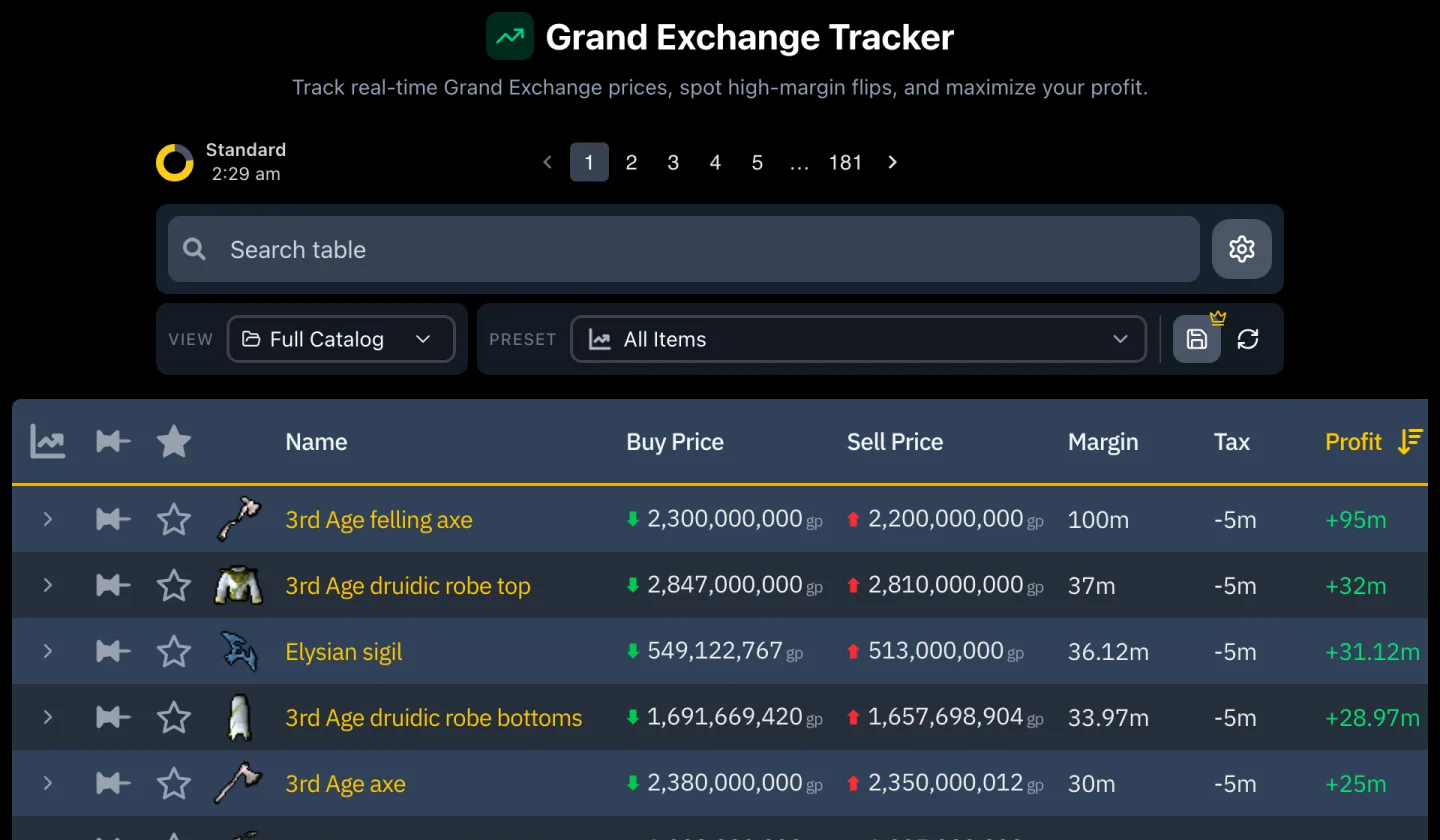
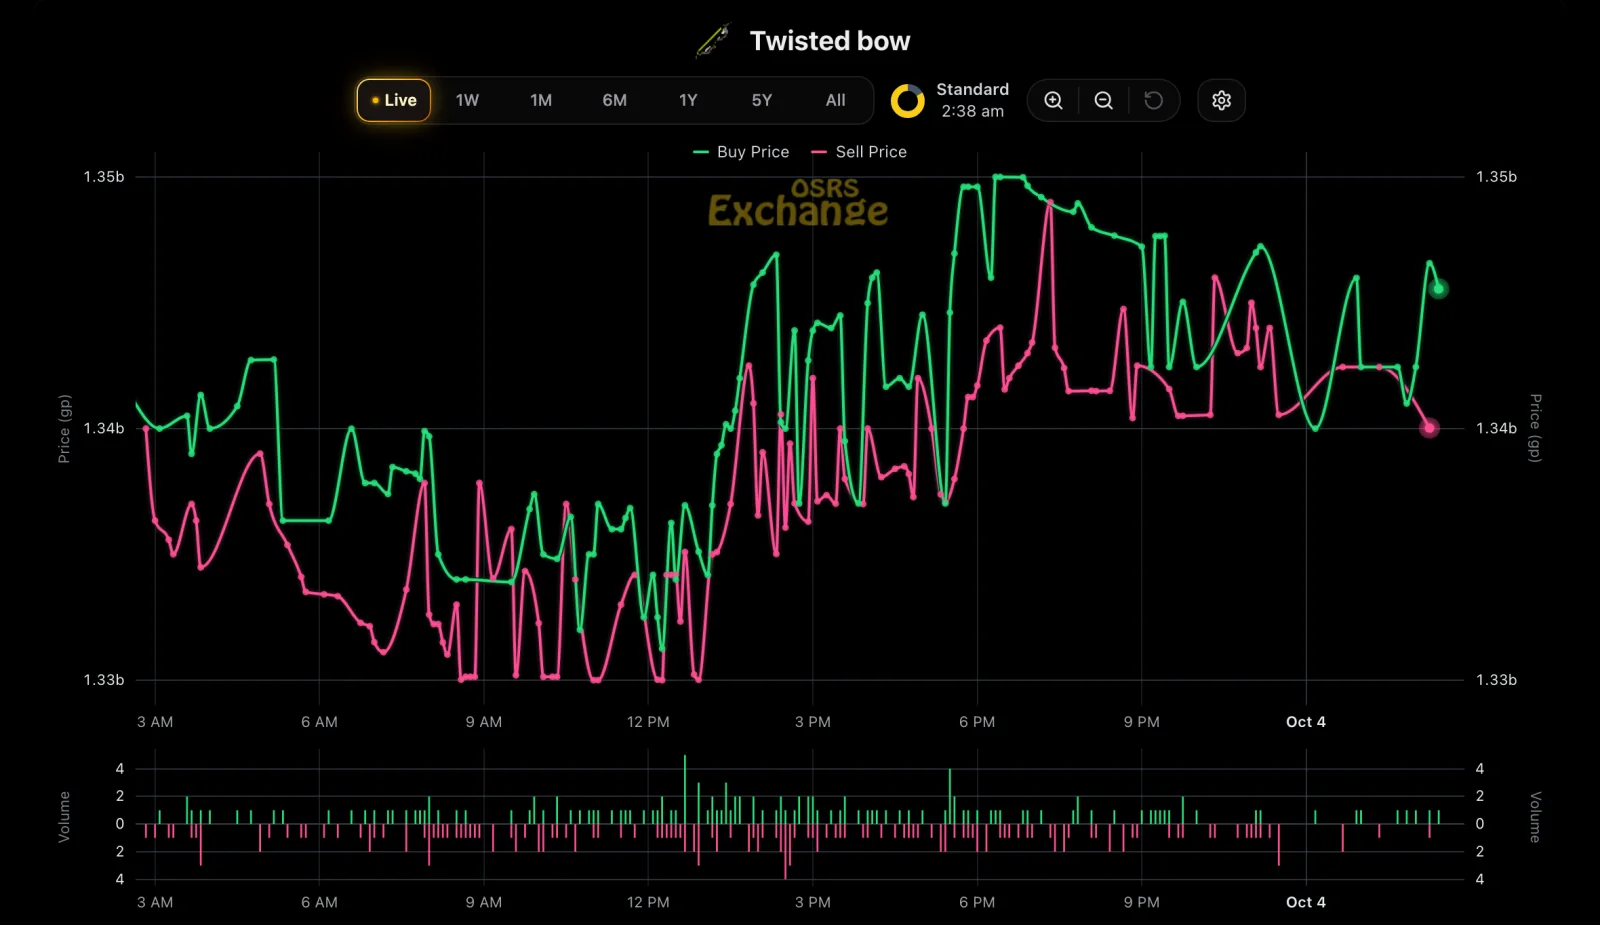
home: OSRS Exchange and RS3 Exchange show price charts instead of the item table, chosen to look nothing alike: the Twisted bow's live day of buy and sell prices with volume, and the Elder rune bar's five years of history; the browser outline shows each chart's own address and clicking it opens that

diff --git a/src/site.ts b/src/site.ts
@@ -22,7 +22,18 @@ export type Product = {
   /** The product's own brand color, used for small accents next to it. */
   color: string;
   /** A real screen from the product, shown in a browser or phone outline. */
-  shot: { src: string; dark?: string; frame: 'browser' | 'phone'; alt: string };
+  shot: {
+    src: string;
+    /** A half-width copy for small screens. */
+    small?: string;
+    dark?: string;
+    width: number;
+    height: number;
+    frame: 'browser' | 'phone';
+    alt: string;
+    /** The exact page the screen was taken from, shown in the browser outline and linked. */
+    url?: string;
+  };
 };
 
 export const products: Product[] = [
@@ -40,6 +51,8 @@ export const products: Product[] = [
     shot: {
       src: '/shots/wallyt-light.webp',
       dark: '/shots/wallyt-dark.webp',
+      width: 640,
+      height: 1386,
       frame: 'phone',
       alt: 'Wallyt’s home screen for a ski trip group: Cara owes you $202.15, above the trip’s expenses.',
     },
@@ -57,15 +70,19 @@ export const products: Product[] = [
     color: '#4f46e5',
     shot: {
       src: '/shots/osrs-exchange.webp',
+      small: '/shots/osrs-exchange-800.webp',
+      width: 1600,
+      height: 925,
       frame: 'browser',
-      alt: 'OSRS Exchange’s Grand Exchange Tracker: a table of items with live buy and sell prices, margin, tax, profit and return.',
+      url: 'https://www.osrs.exchange/item/twisted-bow',
+      alt: 'OSRS Exchange’s live chart for the Twisted bow: buy and sell prices around 1.34 billion gp over the last day, with trade volume underneath.',
     },
   },
   {
     slug: 'rs3-exchange',
     name: 'RS3 Exchange',
     summary:
-      'The same live market for RuneScape 3, built on the engine behind OSRS Exchange.',
+      'The same live market for RuneScape 3, with years of price history behind every item.',
     platforms: 'Web',
     status: 'live',
     href: 'https://www.rs3.exchange',
@@ -74,8 +91,12 @@ export const products: Product[] = [
     color: '#047857',
     shot: {
       src: '/shots/rs3-exchange.webp',
+      small: '/shots/rs3-exchange-800.webp',
+      width: 1600,
+      height: 925,
       frame: 'browser',
-      alt: 'RS3 Exchange’s Grand Exchange Tracker: the same live table of prices and profits for RuneScape 3 items.',
+      url: 'https://www.rs3.exchange/item/elder-rune-bar',
+      alt: 'RS3 Exchange’s five-year chart for the Elder rune bar: from about 12k gp in 2022 to a peak near 26k in 2024, back to about 14k now.',
     },
   },
 ];
